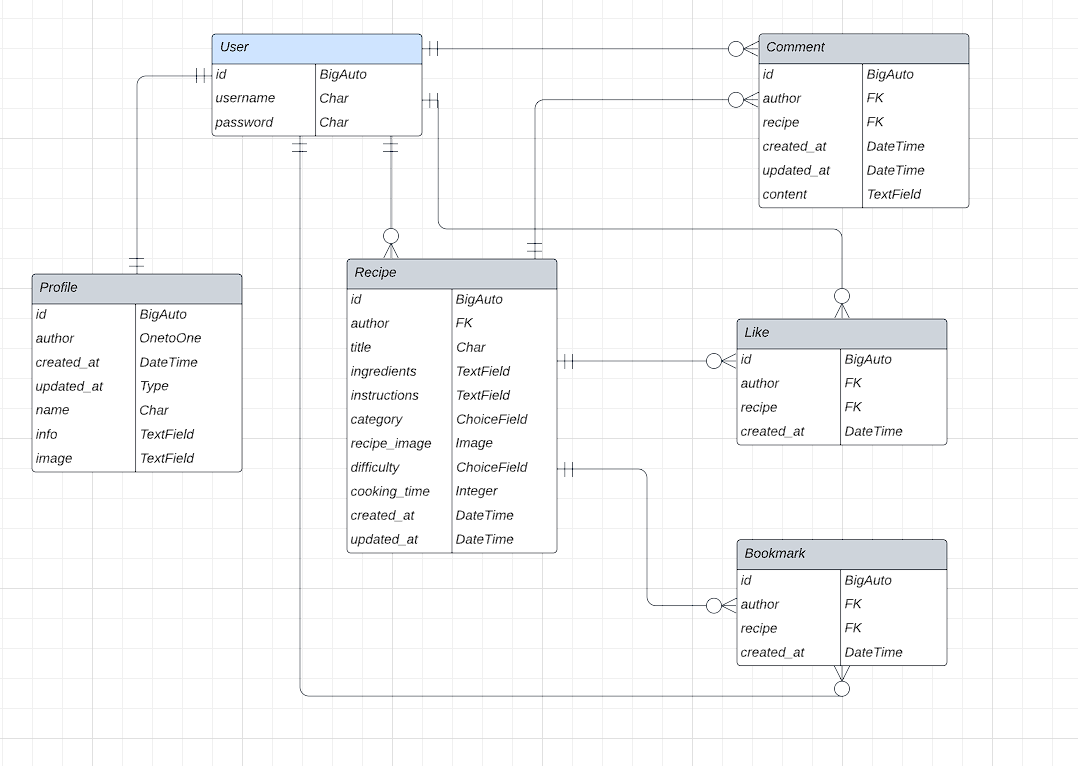
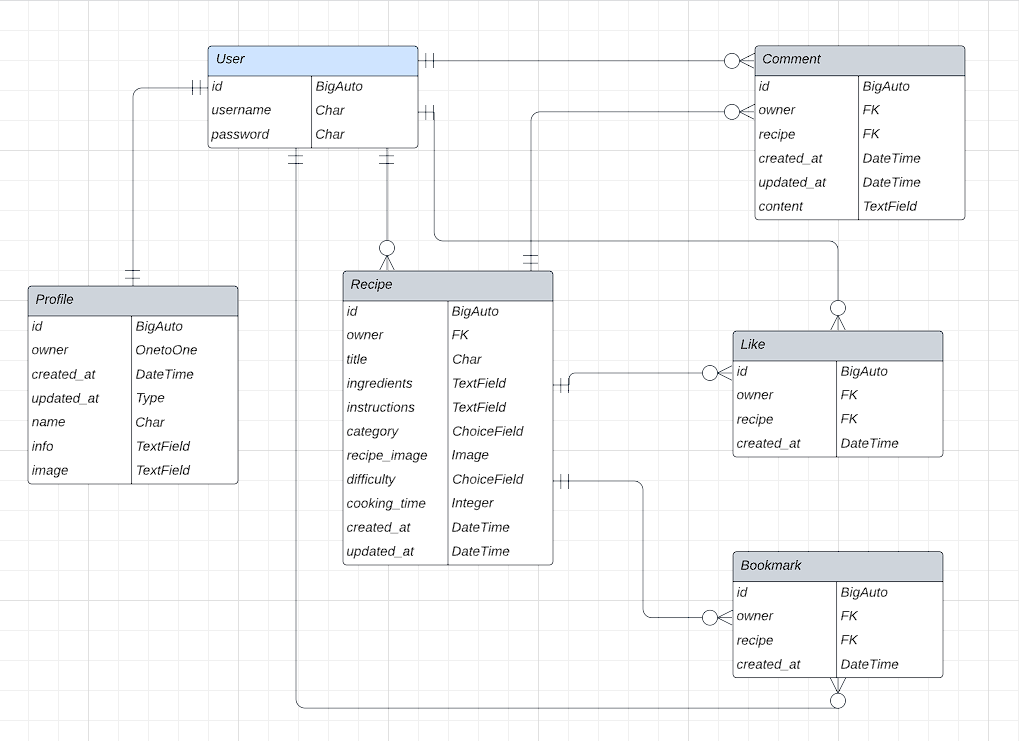
feat: Add Like Serializer and handling of duplicate likes

diff --git a/likes/serializers.py b/likes/serializers.py
@@ -1,0 +1,23 @@
+from django.db import IntegrityError
+from rest_framework import serializers
+from likes.models import Like
+
+
+class LikeSerializer(serializers.ModelSerializer):
+    """
+    Serializer for the Like model.  
+    The create method handles the duplicate likes.
+    """
+    owner = serializers.ReadOnlyField(source='owner.username')
+
+    class Meta:
+        model = Like
+        fields = ['id', 'created_at', 'owner', 'recipe']
+
+    def create(self, validated_data):
+        try:
+            return super().create(validated_data)
+        except IntegrityError:
+            raise serializers.ValidationError({
+                'detail': 'possible duplicate'
+            })
